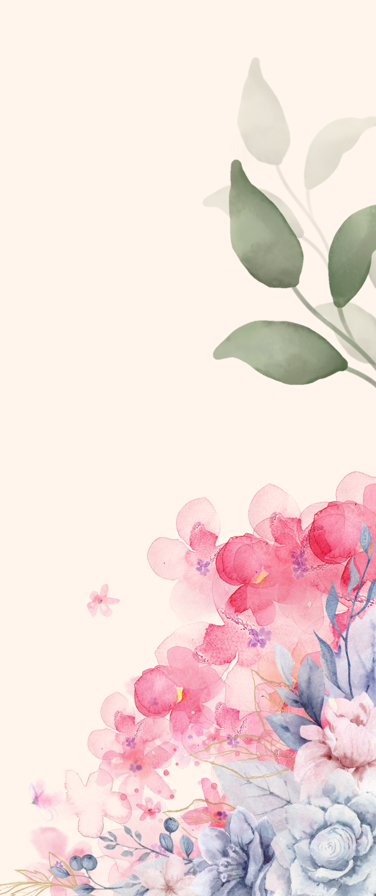
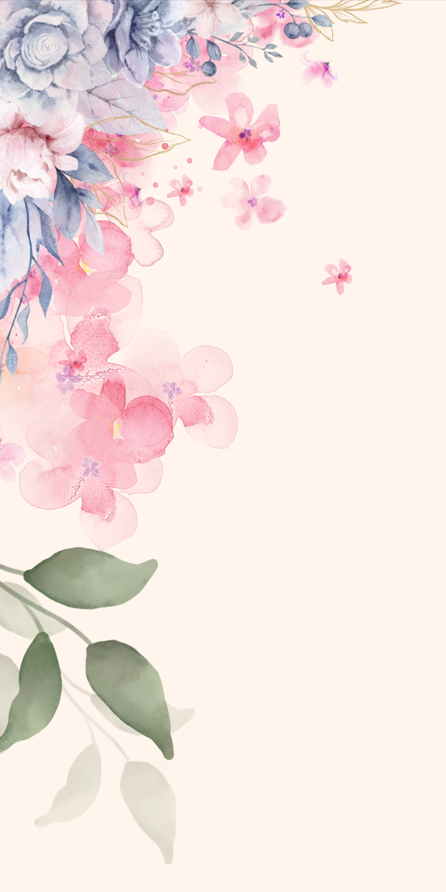
mas pruebas

diff --git a/css/style.css b/css/style.css
@@ -17,7 +17,7 @@ body {
 /* FONDO MÓVIL */
 @media (max-width: 768px) {
   body {
-    background-image: url('../assets/IMG/fondo_movil_format_2.png');
+    background-image: url('../assets/IMG/fondo_movil_format.png');
     background-position: 50% center;
     background-size: cover;
   }
